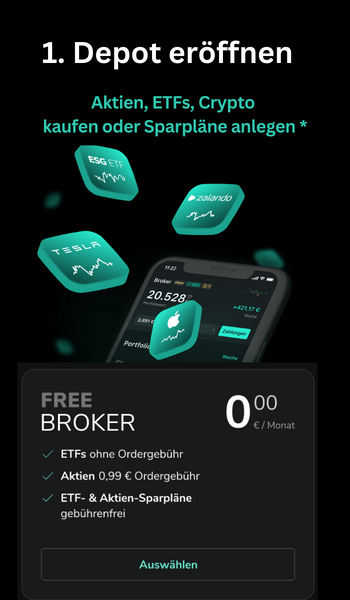
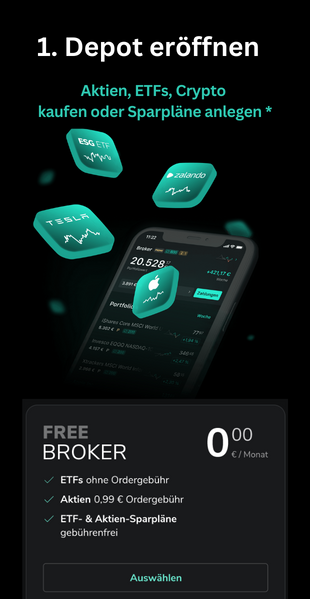
Change Images

diff --git a/lib/webpage/body.dart b/lib/webpage/body.dart
@@ -34,8 +34,8 @@ class Body extends StatelessWidget {
               );
             },
             child: Container(
-              width: 350,
-              height: 596,
+              width: 310,
+              height: 606,
               margin: const EdgeInsets.all(2.0),
               padding: const EdgeInsets.all(2.0),
               decoration:
@@ -64,8 +64,8 @@ class Body extends StatelessWidget {
               );
             },
             child: Container(
-              width: 350,
-              height: 596,
+              width: 310,
+              height: 606,
               margin: const EdgeInsets.all(2.0),
               padding: const EdgeInsets.all(2.0),
               decoration: BoxDecoration(
@@ -92,8 +92,8 @@ class Body extends StatelessWidget {
               ]);
             },
             child: Container(
-              width: 350,
-              height: 596,
+              width: 310,
+              height: 606,
               margin: const EdgeInsets.all(2.0),
               padding: const EdgeInsets.all(2.0),
               decoration: BoxDecoration(
@@ -115,8 +115,8 @@ class Body extends StatelessWidget {
               js.context.callMethod('open', ['https://amzn.to/3n7Y6ym']);
             },
             child: Container(
-              width: 350,
-              height: 596,
+              width: 310,
+              height: 606,
               margin: const EdgeInsets.all(2.0),
               padding: const EdgeInsets.all(2.0),
               decoration: BoxDecoration(
